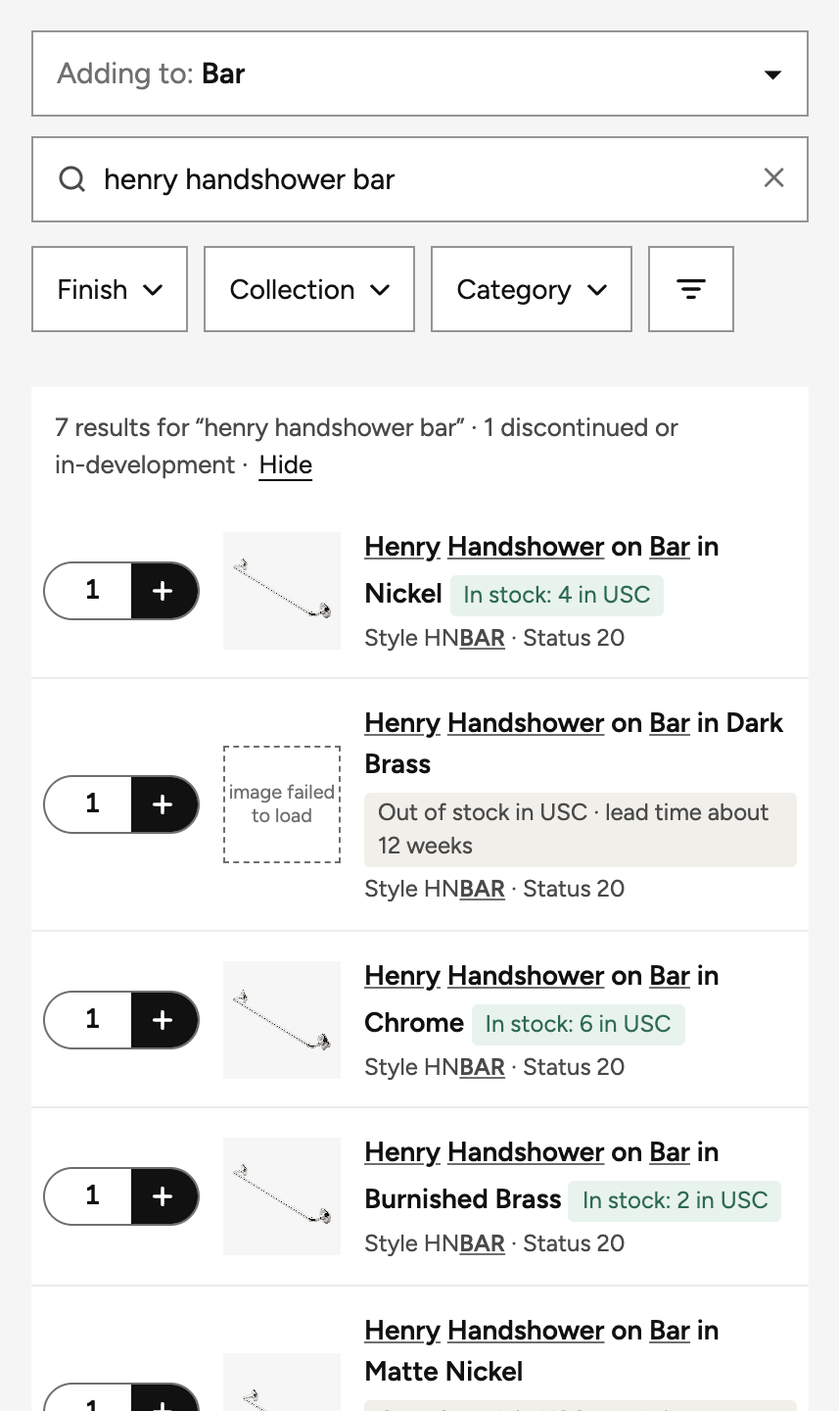
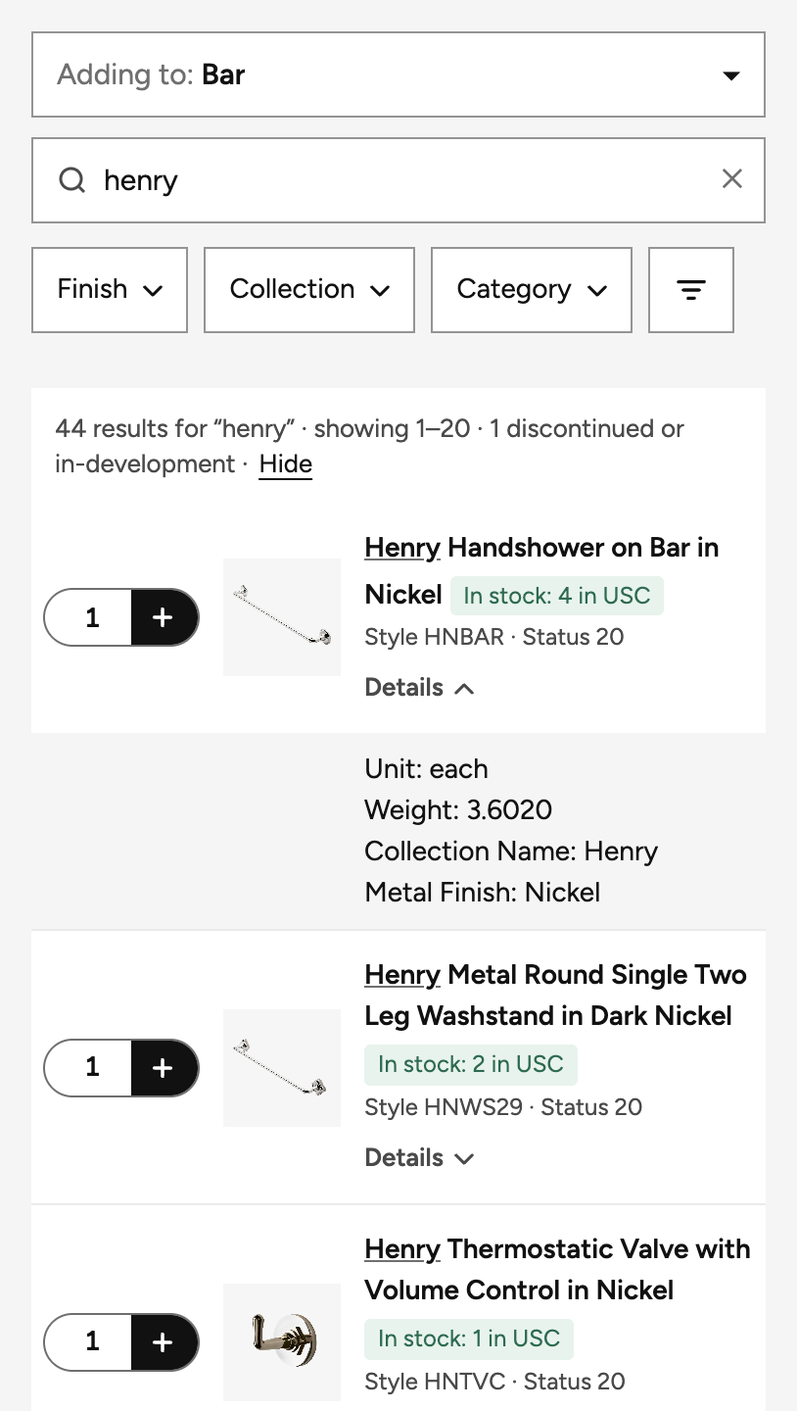
Add a Details button to result rows, say "Unit", and add "Show only matches"
- Result rows: a "Details" button with a chevron on every row, at every width,
  opens the tray (now unit, weight, collection, finish). It used to open only
  from the unit column, which hides under 640px (Nick, Nov 5).
- The unit column reads "Unit" with "each" and "sq ft" instead of UOM, EA, SF.
- Find in this quote: a "Show only matches" checkbox beside the find box; the
  count line reads "Showing 4 matching lines of 7" while it's ticked.
- Update CLAUDE.md, prd-trace.md and the S-06 screenshot.

diff --git a/qom-product-search-prototype-v2.html b/qom-product-search-prototype-v2.html
@@ -193,7 +193,11 @@ table.res td{border-bottom:1px solid var(--line-2);padding:12px 6px;vertical-ali
 table.res tr.blocked td{color:var(--ink-3)}
 table.res td.num{white-space:nowrap}
 table.res .sty{display:block;color:var(--ink-3);font-size:12px;margin-top:2px}
-table.res .uom button{border:0;background:none;padding:0;font:inherit;color:inherit;text-decoration:underline;text-underline-offset:3px;cursor:pointer}
+/* Details on every row, at every width: opens the tray with unit, weight, collection and finish (it used to open only from the unit column, which hides under 640px) */
+table.res .rdet{display:flex;align-items:center;gap:6px;margin-top:6px;padding:2px 0;border:0;background:none;font:inherit;font-size:13px;font-weight:600;color:var(--ink-2);cursor:pointer}
+table.res .rdet:hover{color:var(--ink);text-decoration:underline;text-underline-offset:3px}
+table.res .rdet svg{transition:transform .15s}
+table.res .rdet[aria-expanded="true"] svg{transform:rotate(180deg)}
 table.res tr.has-tray td{border-bottom:0}
 table.res tr.tray td{background:var(--surface);padding:8px 6px;font-size:14px;line-height:1.5}
 table.res tr.part td .name{color:var(--ink-2)}
@@ -587,6 +591,10 @@ button.thumb:focus-visible{outline:2px solid var(--ink);outline-offset:2px}
 /* Find in this quote: "2 of 5", previous / next and clear sit inside the field once there's something typed */
 .lfilter.on{min-width:min(340px,100%);padding-right:0}
 .lfilter [hidden]{display:none}
+.fonly{display:inline-flex;align-items:center;gap:8px;font-size:14px;color:var(--ink);white-space:nowrap;cursor:pointer}
+.fonly[hidden]{display:none}
+.fonly input{width:16px;height:16px;margin:0;accent-color:var(--ink);cursor:inherit}
+.fonly.off{color:var(--ink-3);cursor:default}
 .lfilter input::-webkit-search-cancel-button{-webkit-appearance:none;appearance:none} /* our own clear button instead */
 .lfilter .findn{flex:none;font-size:13px;color:var(--ink-2);font-variant-numeric:tabular-nums;white-space:nowrap}
 .lfilter .fbtn{flex:none;width:44px;height:44px;margin:-1px 0;display:flex;align-items:center;justify-content:center;border:0;background:transparent;color:var(--ink);padding:0}
@@ -1156,6 +1164,7 @@ body{padding-bottom:var(--bar-h,0px)} /* the page and both sides end above it */
           <div class="qtsum"><h2 class="sr">Selected products</h2><p class="qtcount" id="qtCount" aria-live="polite"></p></div>
           <div class="qtact" id="qtAct">
             <label class="lfilter"><svg width="14" height="14" viewBox="0 0 16 16" fill="none" stroke="currentColor" stroke-width="1.6" stroke-linecap="round" aria-hidden="true"><circle cx="7" cy="7" r="5"/><path d="M11 11l3.5 3.5"/></svg><input type="search" id="lineFilter" placeholder="Find in this quote" aria-label="Find in this quote: product name, item number or room" autocomplete="off"><span class="findn" id="findCount" aria-live="polite" hidden></span><button type="button" class="fbtn" id="findClear" aria-label="Clear find" hidden><svg width="12" height="12" viewBox="0 0 12 12" fill="none" stroke="currentColor" stroke-width="1.8" stroke-linecap="round" aria-hidden="true"><path d="M2 2l8 8M10 2l-8 8"/></svg></button></label>
+            <label class="fonly" id="findOnlyWrap" hidden><input type="checkbox" id="findOnlyChk" autocomplete="off"><span>Only show matching lines</span></label>
             <button type="button" class="tolink qtfold" id="toolAddBtn" aria-controls="roomMenu"><svg width="12" height="12" viewBox="0 0 12 12" fill="none" stroke="currentColor" stroke-width="1.6" stroke-linecap="round" aria-hidden="true"><path d="M6 1v10M1 6h10"/></svg><span>Add room</span></button>
             <button type="button" class="tolink qtfold" id="foldAll"></button>
           </div>
@@ -1694,15 +1703,15 @@ function renderResults(){
     return `<tr class="${blocked?'blocked':''} ${p.part?'part':''} ${openTrays.has(p.sku)?'has-tray':''}">
       <td>${addCell(p,canAdd,blocked)}</td>
       <td>${thumbHtml(p)}</td>
-      <td><div class="name"><span class="pn">${hl(p.name)} in ${hl(p.fin)}</span>${rowTags(p)}${stockTag(p)}${p.cmm?` <span class="tag note" title="Item group ${esc(p.ig)}">Commercial only</span>`:''}${p.kit?` <span class="tag note ktag" title="Includes ${p.kit.length} products">Kit · ${p.kit.length} products</span>`:''}${accents}<small class="ncomp">Style ${hl(p.style)} · Status ${p.st}${S.price?` · List ${price}`:""}</small>${reason?`<span class="reason">${esc(reason)} <span class="fr">FR-4</span></span>`:''}</div></td>
+      <td><div class="name"><span class="pn">${hl(p.name)} in ${hl(p.fin)}</span>${rowTags(p)}${stockTag(p)}${p.cmm?` <span class="tag note" title="Item group ${esc(p.ig)}">Commercial only</span>`:''}${p.kit?` <span class="tag note ktag" title="Includes ${p.kit.length} products">Kit · ${p.kit.length} products</span>`:''}${accents}<small class="ncomp">Style ${hl(p.style)} · Status ${p.st}${S.price?` · List ${price}`:""}</small>${reason?`<span class="reason">${esc(reason)} <span class="fr">FR-4</span></span>`:''}<button type="button" class="rdet" data-tray="${esc(p.sku)}" aria-expanded="${openTrays.has(p.sku)}" aria-controls="tray-${esc(p.sku)}">Details<span class="sr"> for ${esc(p.name)} in ${esc(p.fin)}</span>${CHEV}</button></div></td>
       <td class="sku wd c-sku">${hl(p.sku)}${p.style!==p.sku?`<small class="sty">Style ${hl(p.style)}</small>`:""}</td>
       <td class="num wd c-st">${p.st}</td>
       <td class="wd c-lt">${esc(p.lt)}</td>
-      <td class="uom wd c-uom"><button type="button" data-tray="${esc(p.sku)}" aria-expanded="${openTrays.has(p.sku)}" aria-controls="tray-${esc(p.sku)}" title="${openTrays.has(p.sku)?"Hide":"Show"} weight, collection and finish">${esc(p.uomCode)}</button></td>
+      <td class="uom wd c-uom">${esc(unitLabel(p))}</td>
       ${S.price?`<td class="sku wd c-price">${price}</td>`:""}
-    </tr>${openTrays.has(p.sku)?`<tr class="tray" id="tray-${esc(p.sku)}"><td colspan="2"></td><td colspan="10">Weight: ${p.wt}<br>Collection Name: ${esc(p.col)}<br>${p.cat==="Surfaces"?"Color":"Metal Finish"}: ${esc(p.fin)}</td></tr>`:""}`;
+    </tr>${openTrays.has(p.sku)?`<tr class="tray" id="tray-${esc(p.sku)}"><td colspan="2"></td><td colspan="10">Unit: ${esc(unitLabel(p))}<br>Weight: ${p.wt}<br>Collection Name: ${esc(p.col)}<br>${p.cat==="Surfaces"?"Color":"Metal Finish"}: ${esc(p.fin)}</td></tr>`:""}`;
   }).join("");
-  box.innerHTML=`<div class="reswrap"><table class="res"><thead><tr><th scope="col">Add</th><th scope="col">Picture</th><th scope="col">Name</th><th scope="col" class="wd c-sku">Item Number</th><th scope="col" class="wd c-st">Status</th><th scope="col" class="wd c-lt">Line Type</th><th scope="col" class="wd c-uom">UOM</th>${S.price?'<th scope="col" class="wd c-price">List $</th>':''}</tr></thead><tbody>${rows}</tbody></table></div>${pages>1?`<nav class="pager" aria-label="Result pages"><button type="button" class="btn ghost" data-page="-1" ${S.page===1?"disabled":""}>Previous</button><span>Page ${S.page} of ${pages}</span><button type="button" class="btn ghost" data-page="1" ${S.page===pages?"disabled":""}>Next</button></nav>`:""}${roomOk?'':'<p class="hint" style="margin-top:8px">Choose a room above to add products. <span class="fr">FR-19</span></p>'}`;
+  box.innerHTML=`<div class="reswrap"><table class="res"><thead><tr><th scope="col">Add</th><th scope="col">Picture</th><th scope="col">Name</th><th scope="col" class="wd c-sku">Item Number</th><th scope="col" class="wd c-st">Status</th><th scope="col" class="wd c-lt">Line Type</th><th scope="col" class="wd c-uom">Unit</th>${S.price?'<th scope="col" class="wd c-price">List $</th>':''}</tr></thead><tbody>${rows}</tbody></table></div>${pages>1?`<nav class="pager" aria-label="Result pages"><button type="button" class="btn ghost" data-page="-1" ${S.page===1?"disabled":""}>Previous</button><span>Page ${S.page} of ${pages}</span><button type="button" class="btn ghost" data-page="1" ${S.page===pages?"disabled":""}>Next</button></nav>`:""}${roomOk?'':'<p class="hint" style="margin-top:8px">Choose a room above to add products. <span class="fr">FR-19</span></p>'}`;
 }
 // stock hint on sellable result rows (status 20), labelled with the warehouse it comes from; discontinued and in-development rows show their reason instead
 const stockTag=p=> !S.stock||p.st!==20 ? "" : (p.stock>0 ? ` <span class="tag ok stk">In stock: ${p.stock} in USC</span>` : ` <span class="tag note stk">${p.lead?"Out of stock in USC · lead time "+esc(p.lead):"Out of stock in USC"}</span>`)+'<span class="fr">FR-8</span>';
@@ -1947,6 +1956,7 @@ const riskBanner=(res,p)=>{ if(!res||res.level==="ok") return "";
   return `<div class="rb ${cls}">${res.level==="unknown"?RI.unk:RI.bad}<span>${msg}</span></div>`; };
 const kitBox=(r,l,p)=>kitClosed(r,l)?"":`<div class="kitbox"><div class="kithead">Included in this kit</div>${p.kit.map(c=>{const cp=CAT.find(x=>x.sku===c.sku); const part=(RISK&&RISK.by[r.name+"|"+l.sku].kit||[]).find(x=>x.cp.sku===cp.sku); return `<div class="kitrow2${part?" "+({blocking:"kbad",risk:"krisk",unknown:"kunk"})[part.level]:""}">${thumbHtml(cp)}<span class="kq">×${c.qty*l.qty}</span><span>${esc(cp.name)} in ${esc(cp.fin)}${part?`<span class="ktag">${riskShort(part)}</span>`:""}<small>${esc(cp.sku)} · ${stockText(cp)}</small></span></div>`;}).join("")}</div>`;
 const UNIT_SHORT={"square feet":"sq ft"};
+const unitLabel=p=>p.uom==="each"?"each":(UNIT_SHORT[p.uom]||p.uom); // plain words on result rows ("each", "sq ft"), not M3's codes (EA, SF) (Nick, Nov 5)
 const openTrays=new Set(); // result rows whose UOM tray is open
 const QTY_ERR={k:null,t:0}; // the line whose typed quantity was just rejected
 // QOM-2961: a typed quantity that isn't a whole multiple rounds up to the next one and says so; helper wording follows QOM-2958
@@ -1969,7 +1979,7 @@ const qtyCell=(r,l,p,id)=>{
 const SHOW_DET_SWITCH=false; // the Shipping Details switch is hidden for now; set to true to bring it back
 const detSwShown=()=>{ $("#detSwWrap").hidden=!SHOW_DET_SWITCH||S.qview!=="products"||!S.quote.rooms.some(r=>r.lines.length); };
 // "Find in this quote" (long quotes run to 100 lines): goes to the best match, marks every match and counts them, in the box and on each room bar.
-// Nothing is hidden unless the SC picks "Show only matches", and then the count line says so ("Showing 14 of 100 lines · Show all lines").
+// Matches are counted in lines. Nothing is hidden unless the SC ticks "Only show matching lines" beside the box; the count line then says "Showing 21 matching lines of 100".
 // Enter goes to the next best match and Shift+Enter back; there are no arrow buttons. S.lineQ is the applied search (after a pause or Enter).
 // A match is a room whose name has every word, or a line whose product name (with its finish, as shown: "… in Nickel") or item number has at least one word
 // and, together with its room name, all of them (any order, any case). Words match at the start of a word ("bar" finds "on Bar",
@@ -1991,16 +2001,19 @@ function findStops(){ const w=findWords(), out=[]; if(!w.length) return out; con
 const isFindHit=(room,sku)=>FIND.stops.some(s=>s.room===room&&(sku===undefined||s.sku===sku)); // no sku: anything in the room
 const roomHitLines=room=>FIND.stops.filter(s=>s.room===room&&s.sku).length; // matching lines in a room, for its bar and the Rooms list
 const roomNameHit=room=>FIND.stops.some(s=>s.room===room&&!s.sku);
-const findOnly=()=>!!S.findOnly&&FIND.stops.length>0; // "Show only matches" applies only while there are matches
-// lines shown under "Show only matches": the matching lines, or every line of a room whose name matches
-const findShows=(r,l)=>!findOnly()||roomNameHit(r.name)||isFindHit(r.name,l.sku);
+const findLines=()=>FIND.stops.filter(s=>s.sku).length; // matches are counted in lines, so the box, the room bars and "Showing 21 of 100 lines" all agree
+const findOnly=()=>!!S.findOnly&&findLines()>0; // "Only show matching lines" applies only while some line matches
+// lines shown under "Only show matching lines": exactly the matching lines (a room whose name matches doesn't bring all its lines)
+const findShows=(r,l)=>!findOnly()||isFindHit(r.name,l.sku);
 function findHl(text,on,id){ text=String(text); const w=findWords(); if(!on||!w.length) return esc(text); // same marking as hl() in the results; id: item numbers mark from the start only
   const lower=text.toLowerCase(), m=new Array(text.length).fill(false);
   w.forEach(t=>{ if(id){ if(lower.startsWith(t)) m.fill(true,0,t.length); return; } for(let i=lower.indexOf(t); i!==-1; i=lower.indexOf(t,i+1)) if(wordAt(lower,i)) m.fill(true,i,i+t.length); });
   let out="", i=0; while(i<text.length){ let j=i; while(j<text.length&&m[j]===m[i]) j++; out+=m[i]?"<mark>"+esc(text.slice(i,j))+"</mark>":esc(text.slice(i,j)); i=j; } return out; }
 function renderFindCount(){ const on=!!S.lineQ.trim(), n=FIND.stops.length, typed=!!$("#lineFilter").value;
   $(".lfilter").classList.toggle("on",on||typed); $("#findCount").hidden=!on; $("#findClear").hidden=!typed&&!on;
-  $("#findCount").textContent=!on?"":n?`${n} match${n===1?"":"es"}`:"No matches"; } // a count only, no "2 of 14" and no arrows
+  const ln=findLines(); // lines only; a room whose name matches is marked and can be gone to, but isn't counted
+  $("#findCount").textContent=!on?"":ln?`${ln} match${ln===1?"":"es"}`:n?"Room only":"No matches";
+  $("#findOnlyWrap").hidden=!on; $("#findOnlyChk").checked=findOnly(); $("#findOnlyChk").disabled=!ln; $("#findOnlyWrap").classList.toggle("off",!ln); } // a count only, no "2 of 14" and no arrows
 // scrolling: the quote scrolls the page, its own pane (layout C) or the full view; the title bar and room bars pin over it
 const scrollerOf=el=>{ for(let n=el.parentElement;n&&n!==document.body;n=n.parentElement){ const o=getComputedStyle(n).overflowY; if((o==="auto"||o==="scroll")&&n.scrollHeight>n.clientHeight) return n; } return window; };
 function pinnedBottom(el){ let b=$(".qbar").getBoundingClientRect().bottom; const h=el.classList.contains("line")?el.closest(".rmblock")?.querySelector(".roomhdr"):null;
@@ -2011,9 +2024,9 @@ function renderQTools(rooms){
   const n=rooms.reduce((a,r)=>a+r.lines.length,0), q=S.lineQ.trim();
   const prod=S.qview==="products"; // counts and tools are Products view only
   const rc=`${rooms.length} room${rooms.length===1?"":"s"}`;
-  const fm=q?FIND.stops.length:0, shown=findOnly()?rooms.reduce((a,r)=>a+r.lines.filter(l=>isFindHit(r.name)&&findShows(r,l)).length,0):0;
-  $("#qtCount").innerHTML=!rooms.length?"":findOnly()?`<b>Showing ${shown} of ${n} line${n===1?"":"s"}</b> · <button type="button" class="tolink" id="findAll">Show all lines</button>`
-    :n?`<b>${n} line${n===1?"":"s"}</b> · ${rc}${fm>1?` · <button type="button" class="tolink" id="findOnlyBtn">Show only matches</button>`:""}${S.view==="commercial"?` · Total blended margin <button type="button" class="bmlink" id="bmLink" aria-label="Total blended margin ${blendedMargin().toFixed(2)}%. Edit it in the full breakdown" title="Edit in the full breakdown">${blendedMargin().toFixed(2)}%</button>`:""}`:`No products yet · ${rc}`;
+  const shown=findOnly()?findLines():0;
+  $("#qtCount").innerHTML=!rooms.length?"":findOnly()?`<b>Showing ${shown} matching line${shown===1?"":"s"} of ${n}</b>`
+    :n?`<b>${n} line${n===1?"":"s"}</b> · ${rc}${S.view==="commercial"?` · Total blended margin <button type="button" class="bmlink" id="bmLink" aria-label="Total blended margin ${blendedMargin().toFixed(2)}%. Edit it in the full breakdown" title="Edit in the full breakdown">${blendedMargin().toFixed(2)}%</button>`:""}`:`No products yet · ${rc}`;
   $("#qtCount").hidden=!prod||!$("#qtCount").innerHTML;
   $("#qtAct").hidden=!prod||!rooms.length;
   $("#qTools").hidden=$("#qtCount").hidden&&$("#qtAct").hidden; // nothing to show (another view): no blank strip under the tabs
@@ -2035,7 +2048,7 @@ function renderQuote(){
   if(!rooms.length&&S.expanded){ wrap.innerHTML=`<div class="empty-quote none xl"><span class="eqicon">${ICON.door}</span><h3>Start with a room</h3><p>Rooms group the quote the way your client thinks about it. Add one, then search for products to put in it.</p><button type="button" class="btn" id="emptyAdd"><svg width="12" height="12" viewBox="0 0 12 12" fill="none" stroke="currentColor" stroke-width="1.6" stroke-linecap="round" aria-hidden="true"><path d="M6 1v10M1 6h10"/></svg>Add room</button></div>`; }
   else if(!rooms.length){ wrap.innerHTML=`<div class="empty-quote none"><span class="eqicon">${ICON.door}</span><h3>No rooms yet</h3><p>Add a room, then search for products to add to it.</p><button type="button" class="btn" id="emptyAdd">Add room</button></div>`; }
   else wrap.innerHTML=rooms.map((r,ri)=>{
-    if(findOnly()&&!isFindHit(r.name)) return ""; // "Show only matches": rooms with nothing matching are left out (the count line says so)
+    if(findOnly()&&!roomHitLines(r.name)) return ""; // "Only show matching lines": rooms with no matching line are left out (the count line says so)
     const isOpen=findOnly()||(S.allOpen?!S.folded.includes(r.name):(S.room===r.name&&S.collapsedFor!==r.name))||SEND.focus?.room===r.name||(!!CR.open&&CR.open.split("|")[0]===r.name); // a room the checklist (or an open parts panel) points into opens too
     const lines=!isOpen?"":r.lines.map((l,li)=>{ if(!findShows(r,l)) return ""; const p=CAT.find(x=>x.sku===l.sku); const line=l.qty*l.unit; const open=S.open.includes(l.sku+r.name);
       const com=S.view==="commercial";
@@ -2485,9 +2498,9 @@ document.addEventListener("keydown",e=>{ if(e.target.id!=="lineFilter") return;
   if(e.key==="Enter"){ e.preventDefault(); stepFind(e.shiftKey?-1:1); return; }
   if(e.key==="Escape"&&(e.target.value||S.lineQ)){ e.preventDefault(); e.stopImmediatePropagation(); clearFind(); } }); // first Esc clears the find, not full view
 document.addEventListener("click",e=>{ const b=e.target.closest("#findClear"); if(!b) return; e.preventDefault(); clearFind(); $("#lineFilter").focus(); });
-// "Show only matches" folds away every line and room that doesn't match; "Show all lines" brings them back. Focus moves to the other link.
-document.addEventListener("click",e=>{ const b=e.target.closest("#findOnlyBtn,#findAll"); if(!b) return; e.preventDefault(); S.findOnly=b.id==="findOnlyBtn"; renderQuote();
-  ($(S.findOnly?"#findAll":"#findOnlyBtn")||$("#lineFilter")).focus(); $("#qtCount").scrollIntoView({block:"nearest"}); });
+// "Only show matching lines": a checkbox beside the find box that keeps its place and its label; ticked, lines and rooms that don't match fold away
+// and the count line says "Showing 21 matching lines of 100", the same number as the box. It shows while a find is applied and is disabled when nothing matches.
+document.addEventListener("change",e=>{ if(e.target.id!=="findOnlyChk") return; S.findOnly=e.target.checked; renderQuote(); $("#findOnlyChk").focus(); $("#qtCount").scrollIntoView({block:"nearest"}); });
 // Add room from anywhere: full screen uses the Rooms panel form; otherwise the search side's room menu (switching to it on layout B's Quote tab)
 function startAddRoom(){
   if(S.expanded){ S.sideAdd=true; S.qview="products"; renderQView(); renderQuote(); $("#sideRoomType").focus(); return; }
@@ -2527,7 +2540,7 @@ document.addEventListener("change",e=>{
     if(t.value==="normal"){ S.query="faucet"; S.filters.fin.add("Brass"); S.filters.cat.add("Fittings"); }
     if(t.value==="fresh"||t.value==="normal"){ $("#q").value=S.query; $("#clearQ").hidden=!S.query; renderFilters(); }
     markSaved(); applySendScenario(t.value); renderRoom(); renderRoomMenu();
-    $("#lineFilter").value=t.value==="long"?"bar":""; S.lineQ=$("#lineFilter").value; S.findOnly=false; FIND.i=-1; // the U-04 demo opens with "bar" found (22 matches in 9 rooms); other scenarios start with no find
+    $("#lineFilter").value=t.value==="long"?"bar":""; S.lineQ=$("#lineFilter").value; S.findOnly=false; FIND.i=-1; // the U-04 demo opens with "bar" found (21 matching lines in 9 rooms); other scenarios start with no find
     renderQuote(); search(); if(t.value==="long") applyFind(); return; }
   if(t.id==="view"){ setView(t.value); return; }
   if(t.id==="conceptRP"){ CR.on=t.checked; CR.open=null; CR.size={}; crHash(CR.on); renderQuote(); renderResults(); return; }

diff --git a/CLAUDE.md b/CLAUDE.md
@@ -22,12 +22,13 @@ Extract the `<script>` contents and run `node --check` on them. One stray charac
 - States: an empty-search prompt, "keep typing" under three characters, loading, no results with next steps, and an error with retry.
 - Can't-add reasons: discontinued (status 80 or 90) and in development (status 10) show in results with the reason. Warehouse status and "waiting on a price" only appear when the item is added. They show by default. The SC hides them with "Hide discontinued and in-development items" at the bottom of More filters (unticked by default, like every filter; it counts on the More filters badge and Clear all resets it), or with Hide on the results count ("1 discontinued or in-development · Hide", then "… hidden · Show"). Both stay in step with the demo bar toggle.
 - Every result row shows the item's status: in the Status column when the search side is 500px or wider, otherwise in the line under the name ("Style ARTF · Status 20"). Kelli asked for it on Nov 5 because today's results show it.
+- Every result row has a "Details" button with a chevron, at every width, that opens a tray with the unit, weight, collection and finish (Nick, Nov 5; it used to open only from the unit column, which hides under 640px). Units read "each" and "sq ft", and the column is headed "Unit", not UOM, EA or SF.
 - Country of Origin shows on quote lines only in the Commercial view (it's commercial-only in QOM).
 - Result rows for sellable items (status 20) show a stock tag labelled with its warehouse: "In stock: 4 in USC", or "Out of stock in USC · lead time about 12 weeks". Sam asked for it back on Nov 5; it's a PRD change from the Oct 30 "no stock in results" decision, so it needs engineering's agreement on cost. Fuller availability appears on the quote line, worded as QOM-2926 will build it: "Available to Promise (ATP): 4" (or "9 from Feb 15, 2027" when only available later), "Estimated delivery date: Nov 12, 2026 · meets RDD" (or "· after RDD"), and "Sourcing warehouse: <code>" only when it differs from the line's warehouse (mock: Henry Single Robe Hook, HNHK-N, ships from USR). ATP and the date each have a two-layer tooltip: a plain sentence, then an "M3:" line (AVTP, CODZ, OIS340MI/LstSupplSummary, mock customer and quantity). No "as of" time.
 - Room picker: the quote's own rooms come first, then "+ Add room", then the standard room types. One form adds or renames a room: "Rename room" in a room's "…" menu opens the Add room form filled in. Type is required and name is optional. The room bar shows the type in grey after the name ("sams kitchen · Kitchen") unless they're the same.
 - Quote panel: rooms, lines, quantities, per-line shipping, "Find in this quote", plus Quote information and PDF preview tabs.
 - Removing a line: every line has a delete button under its "…" menu (Nick and Vicki, Nov 5). Every way of removing a line (that button, "Remove Product" in the "…" menu, and the stepper's trash at the minimum) opens a confirmation showing the product, quantity and room, with Cancel and "Yes, delete". Undo appears after the line goes.
-- Find in this quote: words match at the start of a word, in the product name with its finish ("… in Nickel"), and item numbers match from their start. It goes to the best match (exact item number first, rooms last), underlines every match, and shows "14 matches" in the box and "· 2 matches" on each room bar and in the full-view Rooms list. Nothing is hidden unless the SC picks "Show only matches" on the count line, which then reads "Showing 14 of 100 lines · Show all lines". No arrow buttons: Enter goes to the next best match, Shift+Enter back.
+- Find in this quote: words match at the start of a word, in the product name with its finish ("… in Nickel"), and item numbers match from their start. It goes to the best match (exact item number first, rooms last), underlines every match, and counts matching lines (a room whose name matches is marked but not counted): "21 matches" in the box and "· 2 matches" on each room bar and in the full-view Rooms list. Nothing is hidden unless the SC ticks "Only show matching lines" beside the box, which shows exactly those lines; the count line then reads "Showing 21 matching lines of 100". No arrow buttons: Enter goes to the next best match, Shift+Enter back.
 - Quantities follow QOM-2491 (order multiples): items sold in multiples start at one multiple, + and − step by it, and the helper reads "Sold in increments of 10 square feet". A typed amount that isn't a whole multiple rounds up to the next one, with QOM-2961's note ("Rounded up to 30 square feet: this item is sold in increments of 10 square feet."), on result rows and quote lines. A saved quantity that's already wrong is flagged, not changed.
 - Footer bar: save status with an "unsaved changes" marker, Save, Calculate freight, Send to client, and the "Before you send" panel.
 
@@ -37,7 +38,7 @@ Extract the `<script>` contents and run `node --check` on them. One stray charac
   - Normal: a "faucet" search with Finish: Brass and Category: Fittings.
   - QOM-2926 · ATP, delivery date and sourcing warehouse: adds two lines to Bar, so it shows ATP in stock, "2 from <date>" · after RDD (HNKIT-DB) and "Sourcing warehouse: USR" (HNHK-N). The lines go when you pick another scenario.
   - Fresh quote, no lines: the default on load.
-  - QOM-2514 · U-04 Find in this quote (100-line quote): 100 mock lines in 10 rooms, opening with "bar" already found (22 matches in 9 rooms). The usual lines come back when you pick another scenario.
+  - QOM-2514 · U-04 Find in this quote (100-line quote): 100 mock lines in 10 rooms, opening with "bar" already found (21 matching lines in 9 rooms). The usual lines come back when you pick another scenario.
   - Search · Loading: mock searches take about 1.5 seconds, so "Searching…" shows.
   - Search · Error: shows the error state with Try again.
   - Footer 1 · Unsaved edits, Footer 2 · Saved, no freight, Footer 3 · Calculating freight, Footer 4 · Ready to send, Footer 5 · Blocked.

diff --git a/prd-trace.md b/prd-trace.md
@@ -36,7 +36,7 @@ PRD: `prd.md` (last updated Nov 5, 2026). Prototype: `qom-product-search-prototy
 | FR-21 ☐ | On a quote with three rooms, all three are at the top of the dropdown on the next add | "Adding to" dropdown. Add rooms with "+ Add room" | Meets | The order is "Rooms on this quote" (with line counts), then "+ Add room", then "Standard room types". Standard types already used as room names are left out. Checked in the browser pane with three rooms, including one just added and then renamed |
 | FR-21 ☐ | One action adds a named room or renames the current one, and the room type stays visible | Room bar "…" menu, "Rename room", calls `startRename()`, which opens `openRoomForm("rename",…)`. "+ Add room" opens the same form. `roomName()` adds the type in grey (`.rtype`) | Meets (fixed) | Checked in the browser pane. Rename opens the Add room form titled "Rename room", with the room's type and name filled in. It can change both, rejects a name another room has, and falls back to the type when the name is blank. Cancel returns focus to the "…". From full screen it leaves full screen first. The room bar reads "sams kitchen · Kitchen", and just "Bar" when the name is the type. The inline rename input is gone |
 | FR-6 (P1) | A 12-digit JDE code returns the current item | `haystack()` includes `jde`. `rank()` puts an exact JDE match first (L1413) | Meets | In node, "300004561234" returns HNBAR-N. Only two mock items have JDE codes |
-| FR-7 (P1) | Image, collection, finish, series and FUDS in results; show why it matched | `thumbHtml()` L1656 (failed-image state, zoom). `hl()` L1439. UOM tray L1630 | Partly | Image, finish (in the name) and match underlining are shown. Collection only appears in the UOM tray. Series and secondary description (`sec`) aren't in the result row |
+| FR-7 (P1) | Image, collection, finish, series and FUDS in results; show why it matched | `thumbHtml()` L1656 (failed-image state, zoom). `hl()` L1439. Details tray (`.rdet` button on every row) | Partly | Image, finish (in the name) and match underlining are shown. Collection only appears in the Details tray. Series and secondary description (`sec`) aren't in the result row |
 | FR-8 (P1) | Stock or lead time shown once a line is added, labeled with its source | `pdetails()` follows QOM-2926: "Available to Promise (ATP): <qty>" or "<qty> from <date>" (`atpInfo()`), "Estimated delivery date: <date> · meets RDD / after RDD" against `l.rdd` (`estDelivery()`), "Sourcing warehouse" only when `p.srcwh` differs from the line's warehouse (mock: HNHK-N from USR), plus Warehouse Status and Warehouse USC. Two-layer tooltips (`dtip()`): plain sentence, then "M3: AVTP …" / "M3: CODZ (Confirmed delivery date), OIS340MI/LstSupplSummary …". Stock warnings in `computeRisk()`. Demo bar: "Stock warning examples" | Meets | Checked in the browser pane (Scenario: Normal, and Scenario: "QOM-2926 · ATP, delivery date and sourcing warehouse", which adds example lines to Bar). The "Stock:" row and "as of" time were removed. Not mocked: QOM-2926's special cases (no-limit 1,000,000,000, direct ship, no answer, liquidation, availability unavailable) and the loading state after add. Results also show a stock tag again (`stockTag()`: "In stock: 4 in USC" or "Out of stock in USC · lead time …", status 20 rows only), per the Nov 5 FR-8 change |
 | FR-9 (P1) | Standalone item search | None | Not applicable | Not specced in this PRD (QOM-2800, QOM-2556) |
 | FR-10 (P1) | Near-miss spellings still find the product | `fuzzy()` L1388 | Meets | Tolerates one wrong letter in words of 5+ letters. In node, "univrsal" finds UNRSH10. The typo's word is underlined |
@@ -67,11 +67,11 @@ PRD: `prd.md` (last updated Nov 5, 2026). Prototype: `qom-product-search-prototy
 - **"Show other finishes (n)" link** when the finish filter hides matching products: likely PRD gap (FR-3 behavior).
 - **Finish families, "Most used" groups, and a two-level Category filter with product types**: likely PRD gap (FR-15), and an NFR-4 question.
 - **Line type filter** under More filters: likely PRD gap (not in the FR-12 list).
-- **Photo zoom and the UOM tray** (weight, collection, finish): likely PRD gap (FR-7 detail).
+- **Photo zoom and the Details tray** (unit, weight, collection, finish, opened from "Details" on every row): likely PRD gap (FR-7 detail).
 - **Stock warnings on quote lines** (warehouse status against stock across the quote, QOM-2475/2476): likely PRD gap. It's next to FR-8 but goes further.
 - **Kit lines with "Included in this kit" components**: likely PRD gap. See contradiction 4.
 - **"Adding here" tag on the room bar, and clicking a room to target it**: likely PRD gap (FR-21).
-- **"Find in this quote" line search**: PRD gap (US-10, long quotes; U-04 in the design spec). The prototype now goes to the best match, counts matches in the box and on each room, and offers "Show only matches"; test it with the "QOM-2514 · U-04 Find in this quote" scenario. Proposed PRD wording: "When an SC searches within a quote, they can see how many lines match and which rooms they're in, go straight to the best match, and choose to see only the matching lines. Lines are never hidden without the screen saying so."
+- **"Find in this quote" line search**: PRD gap (US-10, long quotes; U-04 in the design spec). The prototype now goes to the best match, counts matches in the box and on each room, and offers "Only show matching lines"; test it with the "QOM-2514 · U-04 Find in this quote" scenario. Proposed PRD wording: "When an SC searches within a quote, they can see how many lines match and which rooms they're in, go straight to the best match, and choose to see only the matching lines. Lines are never hidden without the screen saying so."
 - **Quote editing**: drag to reorder lines and rooms, duplicate or delete a room, undo remove, Join Product, Add Charge, Alt. Address. Outside this PRD.
 - **Empty quote states** ("Start with a room", "No rooms yet"): likely PRD gap (FR-19, FR-21).
 
